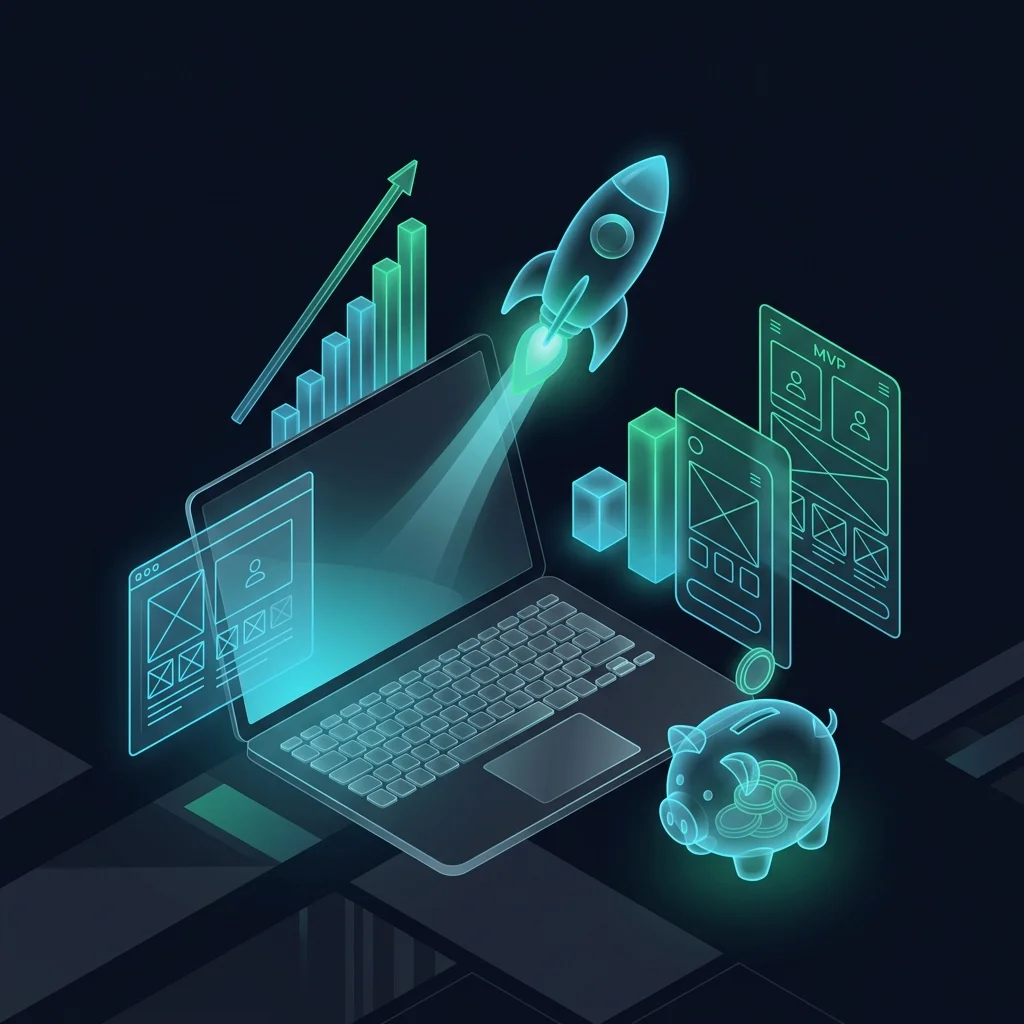
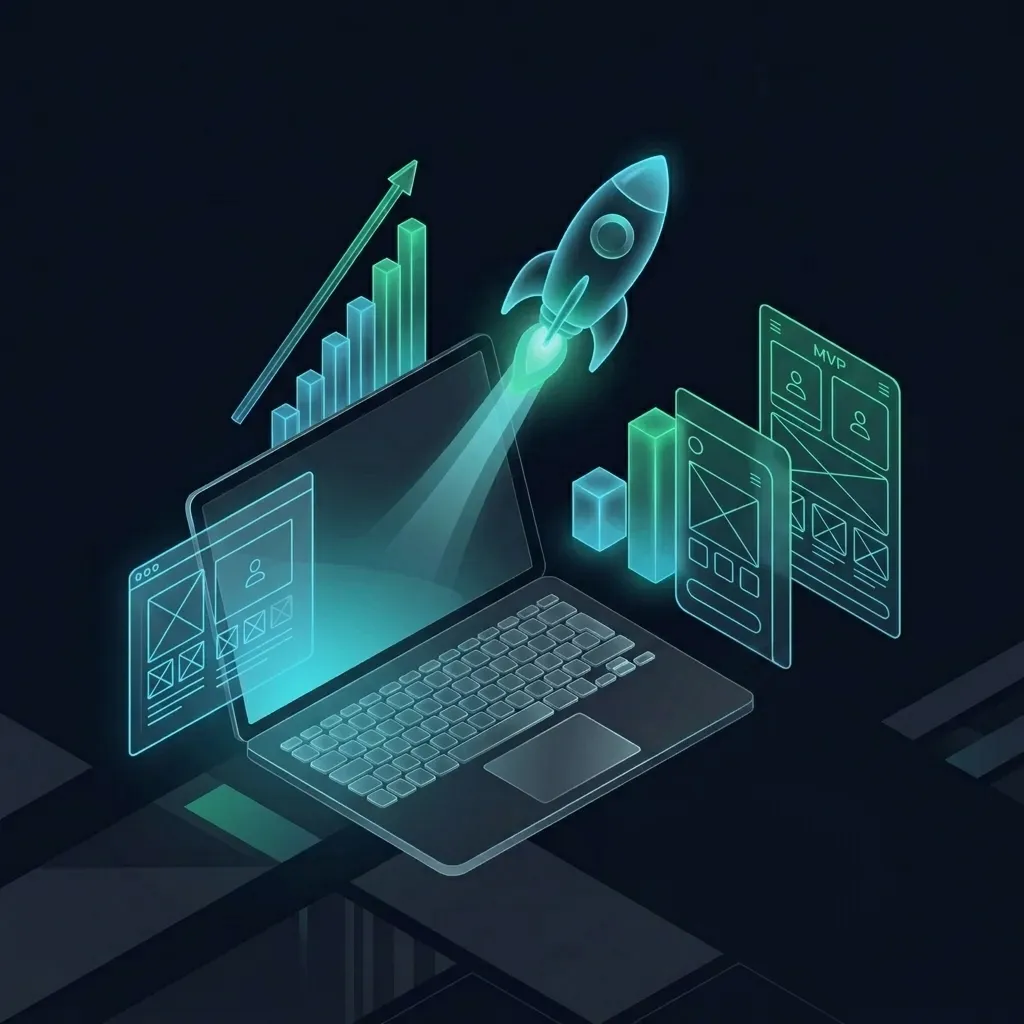
gg

Changed region(s): [[0.625, 0.625, 0.8438, 0.9062]]

diff --git a/lib/i18n/ar.ts b/lib/i18n/ar.ts
@@ -11,7 +11,7 @@ export const ar = {
 
   // Hero
   hero: {
-    badge: "شريكك التقني منذ 2025",
+    badge: "شريكك التقني للنمو",
     headingLine1: "نحول أفكارك إلى",
     headingLine2: "واقع رقمي",
     description: "من حلول البرمجيات المخصصة إلى إدارة البنية التحتية لتكنولوجيا المعلومات والتسويق الرقمي، نحن نقدم منظومة تكنولوجية متكاملة تسرع من وتيرة نموك وتمنحك ميزة تنافسية حقيقية.",
@@ -24,7 +24,7 @@ export const ar = {
     badge: "قصتنا",
     headingLine1: "من فكرة محلية إلى ",
     headingLine2: "شريك تقني",
-    description: "أكثر من سنتين ونحن نبني أنظمة، ندير بنية تحتية ونطلق حملات تسويق رقمي لشركات من كل الأحجام.",
+    description: "نصنع الأنظمة، ندير البنية التحتية، ونقود التسويق الرقمي بخبرة عملية تخدم شركات من مختلف الأحجام وتدفعها للنمو.",
     missionTitle: "مهمتنا",
     missionDesc: "نطمح لأن نكون المزود الموثوق للحلول المتكاملة (All-in-one) الذي يحول الأفكار المبتكرة ونماذج الأعمال إلى حلول رقمية وسحابية مؤثرة. نحن نهدف إلى مواءمة كل مشروع مع أحدث التقنيات ونجاح عملائنا، مما يتيح تحقيق نمو مستدام من خلال التحول الرقمي.",
     visionTitle: "رؤيتنا",
@@ -39,9 +39,9 @@ export const ar = {
 
   // Services
   services: {
-    headingLine1: "كل اللي تحتاجه ",
+    headingLine1: "منظومة متكاملة لنمو أعمالك… ",
     headingLine2: "تحت سقف واحد",
-    description: "مو بس خدمة وحدة، نقدم لك منظومة كاملة، برمجيات، بنية تحتية، وتسويق.. مصممة حسب عملك.",
+    description: "نقدّم لك منظومة رقمية متكاملة تجمع البرمجيات، البنية التحتية، والتسويق، مصممة خصيصًا لتناسب طبيعة عملك وتحقق أهدافه",
     softwareTitle: "البرمجيات والحلول التطبيقية",
     softwareDesc: "نصمم ونطور حلولاً برمجية وتطبيقات ويب ذكية وقابلة للتوسع، مصممة خصيصاً لتلبية احتياجات أعمالك؛ بداية من تحليل الفكرة وبناء تجربة مستخدم (UX) سلسة، وصولاً إلى استخدام أحدث التقنيات البرمجية التي تضمن أداءً سريعاً وأماناً عالياً لبياناتك.",
     consultingTitle: "الخدمات الاستشارية",
@@ -60,8 +60,8 @@ export const ar = {
   contact: {
     badge: "تواصل معنا",
     headingLine1: "عندك فكرة؟ ",
-    headingLine2: "خلنا نحققها سوا",
-    description: "قولنا وش تحتاج وفريقنا يتواصل معك خلال 24 ساعة باستشارة مجانية وخطة عمل واضحة.",
+    headingLine2: "دعنا نحولها إلى واقع معًا!",
+    description: "شاركنا احتياجاتك، وفريقنا سيتواصل معك خلال 24 ساعة لاستشارة مجانية وخطة عمل واضحة تقود فكرتك نحو النجاح.",
     emailLabel: "البريد الإلكتروني",
     facebookLabel: "فيسبوك",
     linkedinLabel: "لينكدإن",
@@ -95,7 +95,7 @@ export const ar = {
     description: "إجابات واضحة ومباشرة على الأسئلة التي يطرحها عملاؤنا قبل بدء شراكتهم معنا.",
     q1: "هل تتبعون منهجية محددة في تطوير المشاريع؟",
     a1: "نعم، نحن نعتمد منهجية الأجايل (Agile) لضمان التسليم في الوقت المحدد، والقدرة على التكيف مع التغييرات، وتحقيق أقصى قدر من رضا العملاء.",
-    q2: "ما هي الخدمات الأساسية التي تقدمها Square Solution؟",
+    q2: "ما هي الخدمات الأساسية التي تقدمها Square Solutions؟",
     a2: "نقدم حلولاً رقمية شاملة تشمل تطوير البرمجيات المخصصة، والتسويق الرقمي، وخدمات تكنولوجيا المعلومات المدارة، والبنية التحتية السحابية، والاستشارات لتحويل عمليات أعمالك.",
     q3: "هل يمكنكم مساعدة الشركات الناشئة ذات الميزانيات المحدودة؟",
     a3: "بالتأكيد. نعمل عن كثب مع الشركات الناشئة لتحديد أولويات الميزات الأساسية، ووضع استراتيجيات MVP، وتقديم حلول فعالة من حيث التكلفة دون المساومة على الجودة.",
@@ -108,16 +108,16 @@ export const ar = {
   // CTA
   cta: {
     badge: "تواصل معنا",
-    headingLine1: "هل أنت مستعد للارتقاء ",
-    headingLine2: "بأعمالك إلى آفاق جديدة؟",
-    description: "ابدأ باستشارة مجانية ونفهم تحدياتك ونرسم لك خطة واضحة بدون التزام.",
+    headingLine1: "ابدأ الآن بخطوة واحدة ",
+    headingLine2: "نحو نمو أكبر.",
+    description: "استشارة مجانية لفهم تحدياتك، وتحويلها إلى خطةعمل واضحة قابلة للتنفيذ—بدون أي التزام.",
     ctaPrimary: "احجز استشارتك المجانية",
     ctaSecondary: "استكشف خدماتنا",
   },
 
   // Footer
   footer: {
-    description: "في Square Solution، نصنع قيمة مستدامة للشركات من خلال بناء وتطوير علاماتها التجارية عبر حلول رقمية مؤثرة.",
+    description: "في Square Solutions، نصنع قيمة مستدامة للشركات من خلال بناء وتطوير علاماتها التجارية عبر حلول رقمية مؤثرة.",
     followUs: "تابعونا على",
     company: "الشركة",
     companyLinks: ["الرئيسية", "قصتنا", "تواصل معنا", "الأسئلة الشائعة"],
@@ -125,6 +125,6 @@ export const ar = {
     serviceLinks: ["البرمجيات والحلول التطبيقية", "الخدمات الاستشارية", "التسويق الرقمي", "إدارة وسائل التواصل الاجتماعي"],
     newsletter: "النشرة الإخبارية",
     emailPlaceholder: "قم بإدخال البريد الإلكتروني الخاص بك",
-    copyright: "حقوق النشر © 2026 Square Solution. جميع الحقوق محفوظة.",
+    copyright: "حقوق النشر © 2026 Square Solutions. جميع الحقوق محفوظة.",
   },
 };

diff --git a/lib/i18n/en.ts b/lib/i18n/en.ts
@@ -11,7 +11,7 @@ export const en = {
 
   // Hero
   hero: {
-    badge: "Your Digital Transformation Partner Since 2025",
+    badge: "Your Technical Partner For Growth",
     headingLine1: "Engineering The Digital",
     headingLine2: "Future Of Your Business",
     description: "From Custom Software Solutions To Managed IT Infrastructure And Digital Marketing. We Deliver A Complete Technology Ecosystem That Accelerates Growth And Gives You A Real Competitive Edge.",
@@ -24,7 +24,7 @@ export const en = {
     badge: "Our Story",
     headingLine1: "From A Local Idea To A ",
     headingLine2: "Regional Tech Partner",
-    description: "For More Than Two Years, We Have Been Building Systems, Managing Infrastructure, And Launching Digital Marketing Campaigns For Businesses Of All Sizes.",
+    description: "We Build Systems, Manage Infrastructure, And Lead Digital Marketing With Practical Expertise That Serves Businesses Of All Sizes And Drives Their Growth.",
     missionTitle: "Our Mission",
     missionDesc: "To Be A Trusted, All-In-One Solutions Provider That Transforms Innovative Ideas And Business Models Into Impactful Digital And Cloud-Based Solutions. We Aim To Align Every Project With Cutting-Edge Technologies And Our Clients' Success, Enabling Sustainable Growth Through Digital Transformation.",
     visionTitle: "Our Vision",
@@ -39,9 +39,9 @@ export const en = {
 
   // Services
   services: {
-    headingLine1: "End-To-End Solutions That ",
-    headingLine2: "Move You Forward",
-    description: "We Don't Believe In Off-The-Shelf Solutions. Every Service Is Custom-Tailored To Fit Your Business, Address Your Real Challenges, And Achieve Your Goals With Precision.",
+    headingLine1: "An Integrated Ecosystem For Your Growth… ",
+    headingLine2: "Under One Roof",
+    description: "We Offer A Complete Digital Ecosystem Combining Software, Infrastructure, And Marketing, Specifically Tailored To Fit Your Business Nature And Achieve Its Goals.",
     softwareTitle: "Software Applications & Solutions",
     softwareDesc: "We Design And Develop Smart, Scalable Software Solutions And Web Applications Tailored To Your Business Needs.",
     consultingTitle: "Consulting Services",
@@ -59,9 +59,9 @@ export const en = {
   // Contact
   contact: {
     badge: "Get In Touch",
-    headingLine1: "Ready To Start Your ",
-    headingLine2: "Digital Journey?",
-    description: "Tell Us About Your Project Or The Challenge You're Facing. Our Consulting Team Will Reach Out Within 24 Hours To Schedule A Free Consultation And Create A Custom Action Plan.",
+    headingLine1: "Have An Idea? ",
+    headingLine2: "Let's Make It Real Together!",
+    description: "Share Your Needs With Us, And Our Team Will Reach Out Within 24 Hours For A Free Consultation And A Clear Action Plan That Drives Your Idea To Success.",
     emailLabel: "Email",
     facebookLabel: "Facebook",
     linkedinLabel: "Linkedin",
@@ -95,7 +95,7 @@ export const en = {
     description: "Clear And Direct Answers To The Questions Our Clients Ask Before Starting Their Partnership With Us.",
     q1: "Do You Follow A Specific Methodology For Project Development?",
     a1: "Yes, We Adopt An Agile Methodology To Guarantee On-Time Delivery, Adaptability To Changes, And Maximum Customer Satisfaction.",
-    q2: "What Core Services Does Square Solution Provide?",
+    q2: "What Core Services Does Square Solutions Provide?",
     a2: "We offer end-to-end digital solutions including custom software development, digital marketing, IT managed services, cloud infrastructure, and consulting to transform your business operations.",
     q3: "Can You Help Startups With Limited Budgets?",
     a3: "Absolutely. We work closely with startups to prioritize essential features, outline MVP strategies, and deliver cost-effective solutions without compromising on quality.",
@@ -108,16 +108,16 @@ export const en = {
   // CTA
   cta: {
     badge: "Get In Touch",
-    headingLine1: "Ready To Take Your Business ",
-    headingLine2: "To The Next Level?",
-    description: "Start With A Free Consultation — We'll Understand Your Challenges And Map Out A Clear Plan, No Strings Attached.",
+    headingLine1: "Start Now With One Step ",
+    headingLine2: "Towards Greater Growth.",
+    description: "A Free Consultation To Understand Your Challenges And Turn Them Into A Clear, Actionable Plan—With No Commitment.",
     ctaPrimary: "Book Your Free Consultation",
     ctaSecondary: "Explore Our Services",
   },
 
   // Footer
   footer: {
-    description: "At Square Solution, We Create Lasting Value For Businesses By Building And Elevating Their Brands Through Impactful Digital Solutions.",
+    description: "At Square Solutions, We Create Lasting Value For Businesses By Building And Elevating Their Brands Through Impactful Digital Solutions.",
     followUs: "Follow Us On",
     company: "Company",
     companyLinks: ["Home", "Our Story", "Contact Us", "FAQ"],
@@ -125,6 +125,6 @@ export const en = {
     serviceLinks: ["Software Solutions", "Consulting Services", "Digital Marketing", "Social Media Management"],
     newsletter: "Newsletter",
     emailPlaceholder: "Enter Your Email",
-    copyright: "© 2026 Square Solution. All Rights Reserved.",
+    copyright: "© 2026 Square Solutions. All Rights Reserved.",
   },
 };

diff --git a/scratch/convert_logo.js b/scratch/convert_logo.js
@@ -1,0 +1,54 @@
+const sharp = require('sharp');
+const fs = require('fs');
+
+async function processLogo() {
+  try {
+    const inputPath = './public/logo.webp';
+    const outputPath = './public/logo-dark.webp';
+
+    // Get raw pixel data
+    const { data, info } = await sharp(inputPath)
+      .raw()
+      .toBuffer({ resolveWithObject: true });
+
+    // data is a Buffer of pixels (channels: 3 or 4 depending on image)
+    const channels = info.channels;
+    
+    for (let i = 0; i < data.length; i += channels) {
+      const r = data[i];
+      const g = data[i + 1];
+      const b = data[i + 2];
+      
+      // Calculate saturation (difference between max and min channel)
+      const max = Math.max(r, g, b);
+      const min = Math.min(r, g, b);
+      const diff = max - min;
+      
+      // If the pixel is mostly grayscale and light (white/gray text)
+      if (diff < 30 && max > 100) {
+        // Change it to black (or dark gray)
+        data[i] = 0;     // R
+        data[i + 1] = 0; // G
+        data[i + 2] = 0; // B
+        // Leave alpha (data[i+3]) as is
+      }
+    }
+
+    // Save the new image
+    await sharp(data, {
+      raw: {
+        width: info.width,
+        height: info.height,
+        channels: channels
+      }
+    })
+    .webp()
+    .toFile(outputPath);
+
+    console.log('Successfully created logo-dark.webp');
+  } catch (error) {
+    console.error('Error processing logo:', error);
+  }
+}
+
+processLogo();

diff --git a/components/pages/landing_page/about/components/AboutStats.tsx b/components/pages/landing_page/about/components/AboutStats.tsx
@@ -10,14 +10,6 @@ export function AboutStats() {
 
   const stats = [
     {
-      icon: Calendar,
-      value: 2,
-      suffix: '+',
-      label: t.about.statsYears,
-      color: '#2dc5f4',
-      spotlightColor: 'rgba(45, 197, 244, 0.1)',
-    },
-    {
       icon: FolderCheck,
       value: 50,
       suffix: '+',
@@ -30,22 +22,22 @@ export function AboutStats() {
       value: 30,
       suffix: '+',
       label: t.about.statsClients,
-      color: '#a855f7',
-      spotlightColor: 'rgba(168, 85, 247, 0.1)',
+      color: '#2dc5f4',
+      spotlightColor: 'rgba(45, 197, 244, 0.1)',
     },
     {
       icon: Handshake,
       value: 100,
       suffix: '%',
       label: t.about.statsCommitment,
-      color: '#fb923c',
-      spotlightColor: 'rgba(251, 146, 60, 0.1)',
+      color: '#12e399',
+      spotlightColor: 'rgba(18, 227, 153, 0.1)',
     },
   ];
 
   return (
     <div
-      className="grid grid-cols-2 lg:grid-cols-4 gap-4 lg:gap-6 w-full mt-14 pt-14 border-t border-[var(--color-border)]"
+      className="grid grid-cols-1 md:grid-cols-3 gap-4 lg:gap-6 w-full mt-14 pt-14 border-t border-[var(--color-border)]"
       style={{ perspective: '1000px' }}
     >
       {stats.map((stat, idx) => (

diff --git a/components/pages/landing_page/contact/components/ContactInfo.tsx b/components/pages/landing_page/contact/components/ContactInfo.tsx
@@ -38,14 +38,14 @@ export function ContactInfo() {
           key={idx}
           whileHover={{ x: 4 }}
           transition={{ type: "spring", stiffness: 400, damping: 25 }}
-          className={`flex items-center py-4 px-5 rounded-xl bg-[var(--color-surface-elevated)] border transition-colors duration-300 ${
+          className={`flex items-center gap-4 py-4 px-5 rounded-xl bg-[var(--color-surface-elevated)] border transition-colors duration-300 ${
             card.highlight
               ? 'border-[var(--color-accent)] shadow-[inset_0_0_20px_var(--color-glow)]'
               : 'border-[var(--color-border)] hover:border-[var(--color-accent)]/50'
           }`}
         >
           {/* Icon Box */}
-          <div className="w-10 h-10 rounded-lg bg-[var(--color-surface-card)] border border-[var(--color-border)] flex items-center justify-center shrink-0 mr-4">
+          <div className="w-10 h-10 rounded-lg bg-[var(--color-surface-card)] border border-[var(--color-border)] flex items-center justify-center shrink-0">
             {card.icon}
           </div>
 

diff --git a/components/pages/landing_page/navbar/components/NavLogo.tsx b/components/pages/landing_page/navbar/components/NavLogo.tsx
@@ -2,13 +2,23 @@ import Image from "next/image";
 
 export function NavLogo() {
   return (
-    <div className="flex items-center shrink-0 rounded-xl px-2 py-1 bg-[#0A0D14] dark:bg-transparent transition-colors duration-300">
+    <div className="flex items-center shrink-0 transition-colors duration-300">
+      {/* Dark mode logo (white text) */}
       <Image
         src="/logo.webp"
         alt="Square Solutions Logo"
         width={500}
         height={500}
-        className="object-contain h-10 sm:h-12 md:h-14 w-auto"
+        className="object-contain h-10 sm:h-12 md:h-14 w-auto hidden dark:block"
+        priority
+      />
+      {/* Light mode logo (black text) */}
+      <Image
+        src="/logo-dark.webp"
+        alt="Square Solutions Logo"
+        width={500}
+        height={500}
+        className="object-contain h-10 sm:h-12 md:h-14 w-auto block dark:hidden"
         priority
       />
     </div>
